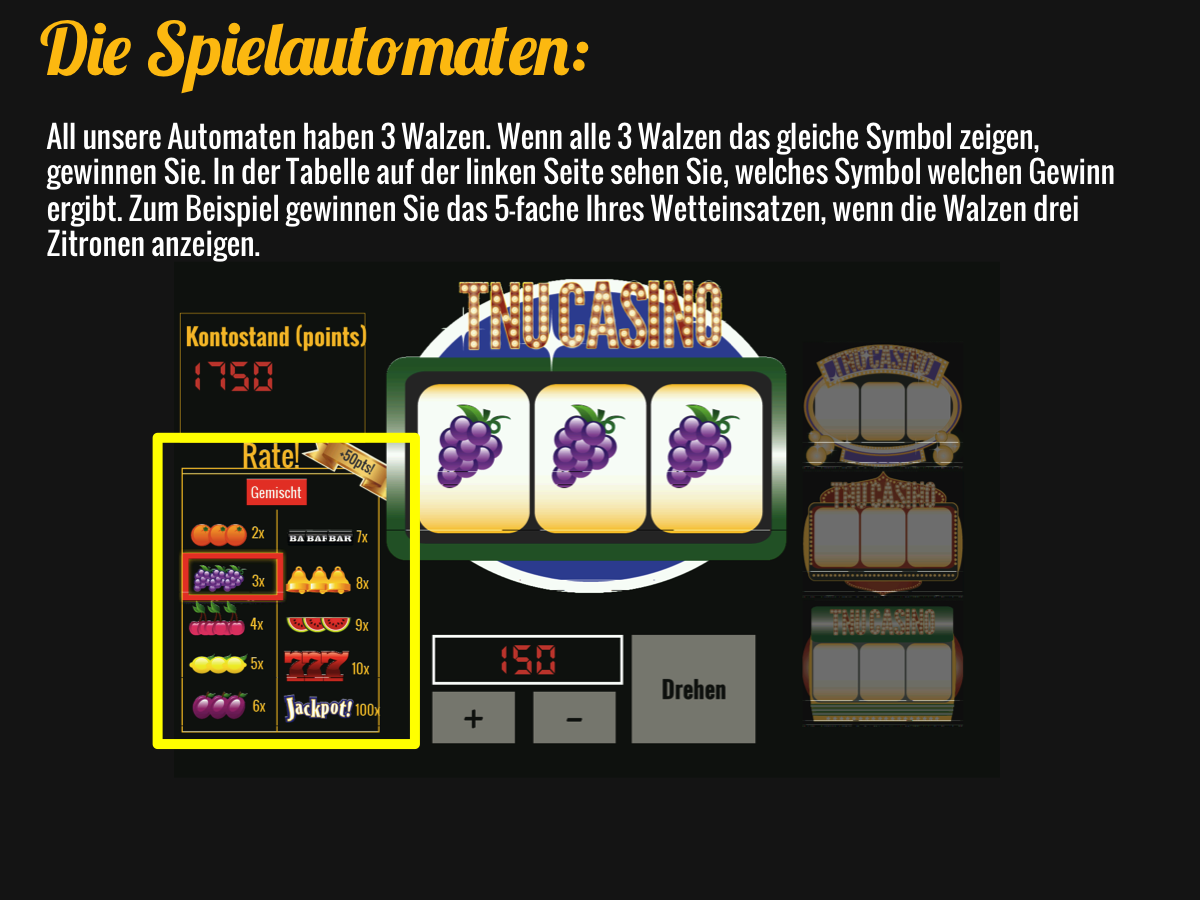
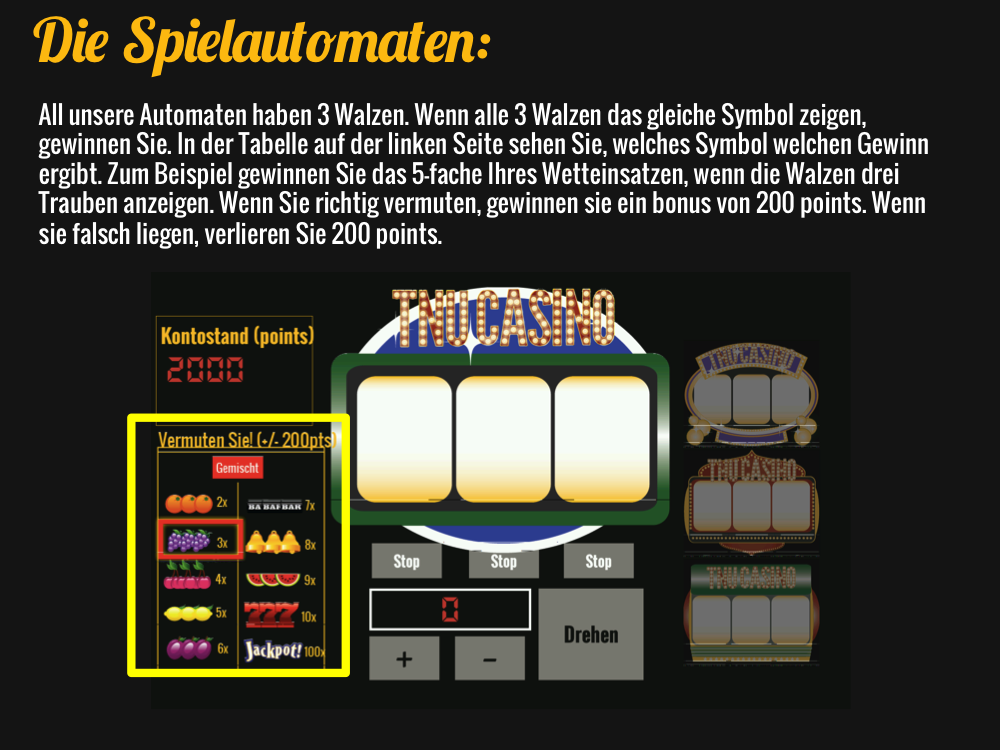
Updates to instruction, game trace.

diff --git a/cstcg_slot_functions.py b/cstcg_slot_functions.py
@@ -117,7 +117,7 @@ def is_odd(num):
     return num & 0x1
 
 
-def process_rtb(positions,index, stage, hold_on):
+def process_rtb(positions,index, stage, hold_on,task=None):
     fix = 50
     events = []
     event_set = False
@@ -151,14 +151,21 @@ def process_rtb(positions,index, stage, hold_on):
              #   event_set = True
         elif stage == 'pull' and hold_on:
             if index == 1:
-                event1.pos = (positions['hold1_x']+fix, positions['hold_y']+fix)
-                event_set = True
-            elif index == 2:
-                event1.pos = (positions['hold2_x']+fix, positions['hold_y']+fix)
-                event_set = True
-            elif index == 4:
-                event1.pos = (positions['hold3_x']+fix, positions['hold_y']+fix)
-                event_set = True
+                if not task['wheel1'] and not task['wheel2'] and not task['wheel3']:
+                    event1.pos = (positions['hold1_x']+fix, positions['hold_y']+fix)
+                    event_set = True
+                elif task['wheel1'] and not task['wheel2'] and not task['wheel3']:
+                    event1.pos = (positions['hold2_x']+fix, positions['hold_y']+fix)
+                    event_set = True
+                elif task['wheel2'] and task['wheel2'] and not task['wheel3']:
+                    event1.pos = (positions['hold3_x']+fix, positions['hold_y']+fix)
+                    event_set = True
+            # elif index == 2:
+            #     event1.pos = (positions['hold2_x']+fix, positions['hold_y']+fix)
+            #     event_set = True
+            # elif index == 4:
+            #     event1.pos = (positions['hold3_x']+fix, positions['hold_y']+fix)
+            #     event_set = True
         elif stage == 'gamble':
             if index == 1:
                 event1.pos = (positions['gamble_x'],positions['gamble_y'])
@@ -500,7 +507,7 @@ def cashout(c, positions, buttons, sizes, task):
         c.text_screen('Leaving the casino!', font=c.title, font_color=GOLD, valign='top', y_displacement= -45, wait_time=3000)  
         c.blank_screen()
         c.text_screen('Entering the casino on a new day!', font=c.title, font_color=GOLD, valign='top', y_displacement= -45, wait_time=3000)  
-        welcome_screen(c) 
+        #welcome_screen(c) 
         c.blank_screen()
     
 
@@ -562,7 +569,7 @@ def begin_training_screen(c):
     c.blank_screen()
     c.log('Training beginning at ' + repr(time.time()) + '\n')
 
-    c.text_screen('Die naechsten 20 Spiele sind zum Ueben da. Die Punkte zaehlen nicht zu ihrem Endergebnis dazu.', font=c.header, font_color=GOLD, valign='center', y_displacement= -45, wait_time=4000) 
+    c.text_screen('Die naechsten 10 Spiele sind zum Ueben da. Die Punkte zaehlen nicht zu ihrem Endergebnis dazu.', font=c.header, font_color=GOLD, valign='center', y_displacement= -45, wait_time=4000) 
 
 def end_training_screen(c):
     waitfun(1000)
@@ -726,6 +733,7 @@ def show_result(c,positions,buttons,task, spinning=False):
                 c.screen.blit(symbols[task['result_sequence'][task['trial']][2]],(positions['machine']['x2'],positions['machine']['y']))
 
             if task['wheel3']:
+                print "Pressed wheel 3"
                 if task['result_sequence'][task['trial']][0] == '1':
                     eeg_trigger(c,task,'pressed_stop_3_win')
                 else:
@@ -770,7 +778,7 @@ def show_result(c,positions,buttons,task, spinning=False):
         else:
             eeg_trigger(c,task,'stop_3_loss')
         pygame.display.flip()
-        waitfun(1000)
+        waitfun(wait)
 
 def process_result(c,positions,buttons,sizes,task, RTB):
     wait = 190
@@ -789,10 +797,13 @@ def process_result(c,positions,buttons,sizes,task, RTB):
    
     if task['result_sequence'][task['trial']][0] == '1':
         if task['guess_trace'][task['trial']] == int(task['result_sequence'][task['trial']][2]):
-            reward = reward + 50
+            reward = reward + 200
             task['winloss'][task['trial']] = reward
     elif task['result_sequence'][task['trial']][0] == '0' and task['guess_trace'][task['trial']] == 1:
-        reward = reward + 50
+        reward = reward + 200
+        task['winloss'][task['trial']] = reward
+    else:
+        reward = reward - 200
         task['winloss'][task['trial']] = reward
 
     if int(task['result_sequence'][task['trial']][4]) == 1:
@@ -823,7 +834,7 @@ def individual_wheel_spin(c, positions, buttons,sizes, task,RTB):
         key_press = RTB.read() 
         if len(key_press):
             key_index = ord(key_press)
-            events = process_rtb(positions,key_index, 'pull', task['wheel_hold_buttons'])
+            events = process_rtb(positions,key_index, 'pull', task['wheel_hold_buttons'], task)
             if len(events) > 0:
                 pygame.event.post(events[0])
                 pygame.event.post(events[1])
@@ -845,49 +856,31 @@ def individual_wheel_spin(c, positions, buttons,sizes, task,RTB):
                         pygame.display.update()
                     elif event.type==MOUSEBUTTONUP:
                         if 'click' in buttons['hold1'].handleEvent(event):
-                            c.press_sound.play()
+                            task['wheel1'] = True
+                            c.screen.blit(machines[str(task['machine'])],(positions['machine']['base_x'],positions['machine']['base_y']))      
+                            show_result(c,positions,buttons,task,spinning=True)
+                            #c.press_sound.play()
                             buttons['hold1'].draw(c.screen)
                             pygame.display.update()
-                            task['wheel1'] = True
      
-                            if task['wheel2'] and task['wheel3']:
-                                buttons['pull'].handleEvent(event)
-                                buttons['pull'].draw(c.screen)
-                                c.wait_fun(100)                  
-                                c.screen.blit(machines[str(task['machine'])],(positions['machine']['base_x'],positions['machine']['base_y']))      
-                                show_result(c,positions,buttons,task,spinning=True)
-                                pygame.display.update()
-                                counter = 40
                         if task['ungrey_wheel2']:
                             if 'click' in buttons['hold2'].handleEvent(event):
-                                c.press_sound.play()
+                                task['wheel2'] = True
+                                c.screen.blit(machines[str(task['machine'])],(positions['machine']['base_x'],positions['machine']['base_y']))
+                                show_result(c,positions,buttons,task, spinning=True)
+                                #c.press_sound.play()
                                 buttons['hold2'].draw(c.screen)
                                 pygame.display.update()
-                                task['wheel2'] = True
 
-                                if task['wheel1'] and task['wheel3']:
-                                    buttons['pull'].handleEvent(event)
-                                    buttons['pull'].draw(c.screen)           
-                                    c.wait_fun(100)
-                                    c.screen.blit(machines[str(task['machine'])],(positions['machine']['base_x'],positions['machine']['base_y']))
-                                    show_result(c,positions,buttons,task, spinning=True)
-                                    pygame.display.update()
-                                    counter = 40
                         if task['ungrey_wheel3']:
                             if 'click' in buttons['hold3'].handleEvent(event):
-                                c.press_sound.play()
+                                task['wheel3'] = True
+                                c.screen.blit(machines[str(task['machine'])],(positions['machine']['base_x'],positions['machine']['base_y']))
+                                show_result(c,positions,buttons,task, spinning=True)
+                                #c.press_sound.play()
                                 buttons['hold3'].draw(c.screen)
                                 pygame.display.update()
-                                task['wheel3'] = True
-
-                                if task['wheel1'] and task['wheel2']:
-                                    buttons['pull'].handleEvent(event)
-                                    buttons['pull'].draw(c.screen)
-                                    c.wait_fun(100)
-                                    c.screen.blit(machines[str(task['machine'])],(positions['machine']['base_x'],positions['machine']['base_y']))
-                                    show_result(c,positions,buttons,task, spinning=True)
-                                    pygame.display.update()
-                                    counter = 40
+                                counter = 40
         else:
             if 0 < round(time.time()*1000) % n < n/4 and show1:
                 if not task['wheel1']:
@@ -944,7 +937,7 @@ def individual_wheel_spin(c, positions, buttons,sizes, task,RTB):
         c.screen.blit(machines[str(task['machine'])],(positions['machine']['base_x'],positions['machine']['base_y']))
         show_result(c,positions,buttons,task, spinning=False)
         pygame.display.flip()
-    c.wait_fun(500)
+    #c.wait_fun(500)
     spinsound.stop()
 
 

diff --git a/cstcg_slot_machine.py b/cstcg_slot_machine.py
@@ -13,7 +13,6 @@ import platform
 
 testing = True
 training = False
-
 response_box = True
 currency = 'points'
 
@@ -40,6 +39,7 @@ background_music.append(pygame.mixer.Sound('./sounds/machine4_music.wav'))
 for i in range(4):
     background_music[i].set_volume(0.1)
 
+pygame.mouse.set_visible(False)
 c = ChoiceTask(background_color=( 20, 20, 20), 
     title  = pygame.font.Font('./fonts/Lobster.ttf', 60),
     body  = pygame.font.Font('./fonts/Oswald-Bold.ttf', 30),
@@ -54,7 +54,7 @@ matlab_output_file = c.create_output_file(subjectname)
 
 # Task trace:
 result_sequence = []
-wheel_hold_bool = [True, True]
+wheel_hold_bool = [True, False]
 block_order = []
 control_seq = []
 
@@ -85,8 +85,8 @@ else:
 
 # Set trial switch specifications
 if testing:
-    NUM_TRIALS = 30
-    task_block_sequence=[10,20,22,24,26,28]
+    NUM_TRIALS = 20
+    task_block_sequence=[5,10,12,14,16,18]
 else:     
     NUM_TRIALS = len(result_sequence)-1
     task_block_sequence=[10,20,50,80,110,140]
@@ -131,7 +131,7 @@ if training:
     task['account'][START_TRIAL] = 2000
 else:
     task['training'] = False
-    START_TRIAL = 20
+    START_TRIAL = 10
     task['account'][START_TRIAL] = 2000
 
 # Set up initial screen 
@@ -139,7 +139,7 @@ positions, buttons, sizes = get_screen_elements(c, task)
 
 if training:
     instruction_screen(c,positions,sizes,RTB)
-    welcome_screen(c)
+    #welcome_screen(c)
 
 for trial in range(START_TRIAL,NUM_TRIALS):   
     if trial == 0:
@@ -160,7 +160,7 @@ for trial in range(START_TRIAL,NUM_TRIALS):
         task['machine'] = block_order[0]
         task['current_block'] = block_order[0]
         task['wheel_hold_buttons'] = wheel_hold_bool[2]
-        welcome_screen(c)
+        #welcome_screen(c)
         background_music[0].play(100,0)
         c.log('Starting block ' + str(block_order[0]) + ' at ' + repr(time.time()) + '\n')
         c.log('Machine ' + str(task['machine']) + 'at ' + repr(time.time()) + '\n')
@@ -169,6 +169,7 @@ for trial in range(START_TRIAL,NUM_TRIALS):
         background_music[0].stop()
         change_machine_screen(c)
         task['machine'] = block_order[1]
+        task['account'][trial] = 2000
         task['current_block'] = block_order[1]
         task['wheel_hold_buttons'] = wheel_hold_bool[3]
         c.log('Starting block ' + str(block_order[1]) + ' at ' + repr(time.time()) + '\n')
@@ -179,6 +180,7 @@ for trial in range(START_TRIAL,NUM_TRIALS):
         background_music[1].stop()
         change_machine_screen(c)
         task['machine'] = block_order[2]
+        task['account'][trial] = 2000
         task['current_block'] = block_order[2]
         task['wheel_hold_buttons'] = wheel_hold_bool[4]
         c.log('Starting block ' + str(block_order[2]) + ' at ' + repr(time.time()) + '\n')
@@ -189,6 +191,7 @@ for trial in range(START_TRIAL,NUM_TRIALS):
         background_music[2].stop()
         change_machine_screen(c)
         task['machine'] = block_order[3]
+        task['account'][trial] = 2000
         task['current_block'] = block_order[3]
         task['wheel_hold_buttons'] = wheel_hold_bool[5]
         c.log('Starting block ' + str(block_order[3]) + ' at ' + repr(time.time()) + '\n')
@@ -212,14 +215,14 @@ for trial in range(START_TRIAL,NUM_TRIALS):
 
     if trial > 0 and training:
         task['account'][trial] = task['account'][trial-1] 
-    elif trial > 20 and not training:
+    elif trial > 20 and not training and trial not in task_block_sequence:
         task['account'][trial] = task['account'][trial-1] 
 
     task['reward_grade'][trial] = int(str(result_sequence[trial])[1])
-    if task['account'][trial] < 5:
-        savemat(matlab_output_file,task)
-        c.text_screen('Unfortunately you lost all your money. Luckily, you have 2000 extra points in storage that we have added to your account. Good luck!', font=c.title, font_color=GOLD, valign='top', y_displacement= -45, wait_time=5000)  
-        task['account'][trial] = task['account'][trial] + 2000
+    # if task['account'][trial] < 5:
+    #     savemat(matlab_output_file,task)
+    #     c.text_screen('Unfortunately you lost all your money. Luckily, you have 2000 extra points in storage that we have added to your account. Good luck!', font=c.title, font_color=GOLD, valign='top', y_displacement= -45, wait_time=5000)  
+    #     task['account'][trial] = task['account'][trial] + 2000
 
     # EEG: Trial on
     if not task['training']:
@@ -307,7 +310,7 @@ for trial in range(START_TRIAL,NUM_TRIALS):
 
 savemat(matlab_output_file,task)
 background_music[3].stop()
-c.exit_screen("Das Slotmachinen Spiel fertig. Vielen Dank, dass Sie mitgemacht haben!", font=c.title, font_color=GOLD)
+c.exit_screen("Das Slotmaschinen Spiel ist fertig. Vielen Dank, dass Sie mitgemacht haben!", font=c.title, font_color=GOLD)
 
 
 
